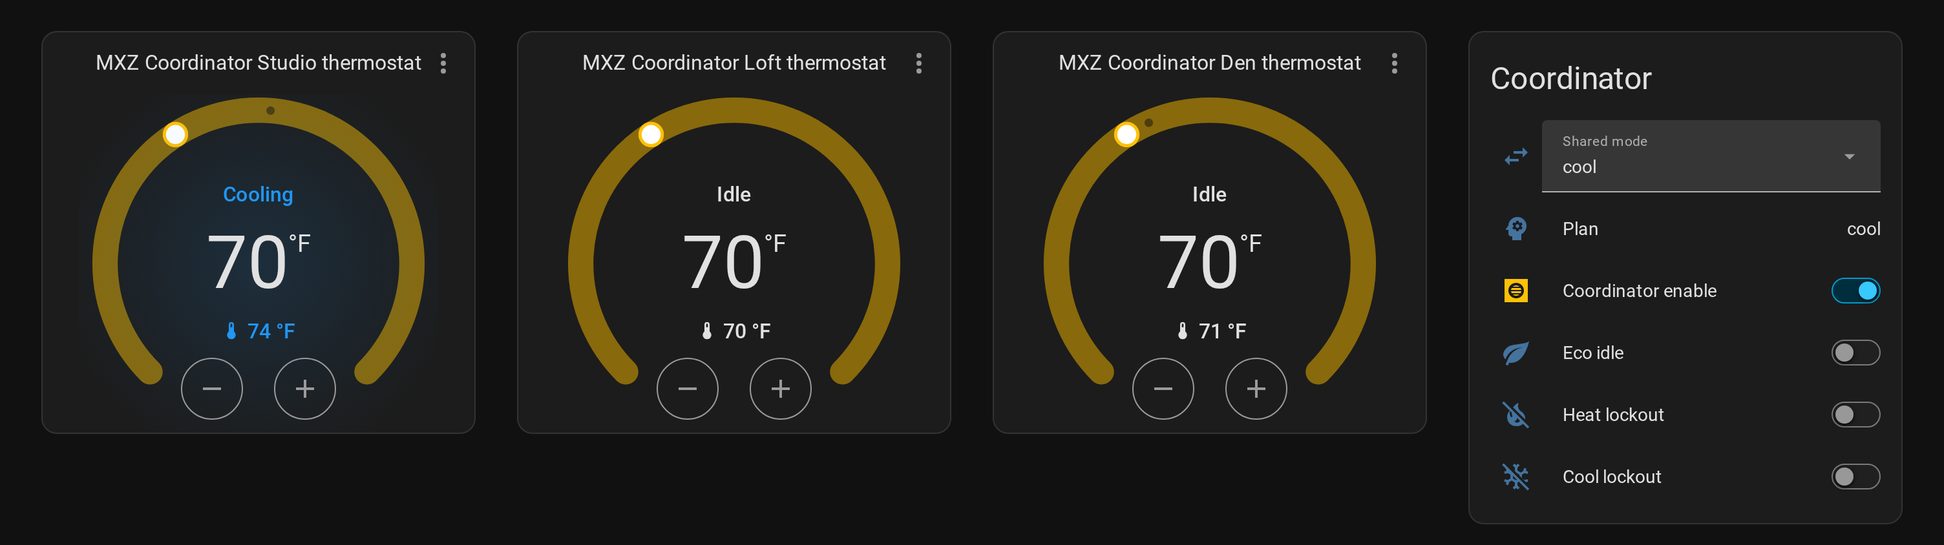
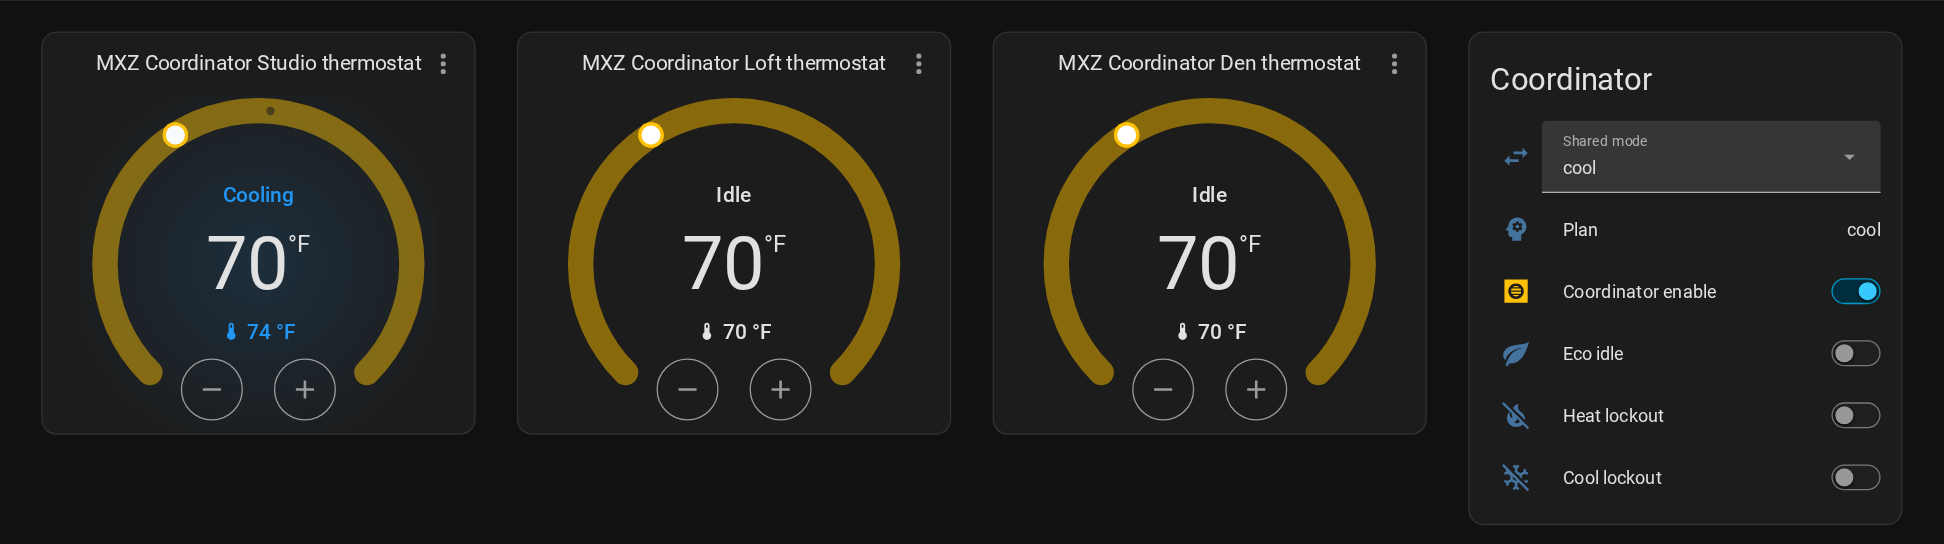
docs(readme): label the Comfort row's beta setting; one state for both dashboard stills
The Tune it table's Comfort row named Accept changes made at the head with
no "3.22.0 beta" label; the setting is not in 3.21.0. The dashboard stills
were taken at different states (Den 70.5 °F rounded to 70 in light, 71 in
dark), so the alt text was false for one of them. Both are retaken in one
run on the throwaway instance with Den at 70 °F, and the alt now says Loft
and Den read 70 °F.

diff --git a/README.md b/README.md
@@ -76,7 +76,7 @@ an hour while the other head sat satisfied
 
 <picture>
   <source media="(prefers-color-scheme: dark)" srcset="https://raw.githubusercontent.com/dkpnw/ha-mxz-coordinator/main/images/mxz-dashboard-dark.png">
-  <img src="https://raw.githubusercontent.com/dkpnw/ha-mxz-coordinator/main/images/mxz-dashboard-light.png" alt="Home Assistant dashboard with one MXZ thermostat per room. Studio reads 74 °F against its 70 °F target and shows Cooling. Loft reads 70 °F and Den 71 °F, both Idle at 70 °F. A Coordinator card shows Shared mode cool, Plan cool, Coordinator enable on, and Eco idle, Heat lockout, and Cool lockout off.">
+  <img src="https://raw.githubusercontent.com/dkpnw/ha-mxz-coordinator/main/images/mxz-dashboard-light.png" alt="Home Assistant dashboard with one MXZ thermostat per room. Studio reads 74 °F against its 70 °F target and shows Cooling. Loft and Den read 70 °F, both Idle at 70 °F. A Coordinator card shows Shared mode cool, Plan cool, Coordinator enable on, and Eco idle, Heat lockout, and Cool lockout off.">
 </picture>
 
 One target per room, one shared mode: Studio cools while Loft and Den, already at target,
@@ -283,7 +283,7 @@ Coordinator → Configure** for a menu of six pages. Each saves only what it sho
 
 | Page | What you set |
 | --- | --- |
-| **Comfort** | Allowed drift, Mode switch threshold, Resting mode, Accept changes made at the head, and (under Advanced) the mode-switch wait, uneven drift, how long a lost head's vote counts, and the Comfort priority stale limit. |
+| **Comfort** | Allowed drift, Mode switch threshold, Resting mode, Accept changes made at the head (3.22.0 beta), and (under Advanced) the mode-switch wait, uneven drift, how long a lost head's vote counts, and the Comfort priority stale limit. |
 | **Fan and idle** | Fan boost and its top speed, and what a room does when it reaches target. |
 | **Seasons** | A weather source and the heat and cool lockout temperatures, with safety overrides. |
 | **Away and setpoint limits** | The away band, and the lowest and highest setpoint a head may get. |
